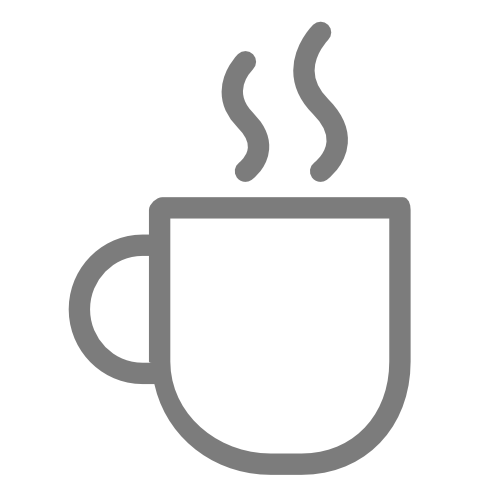
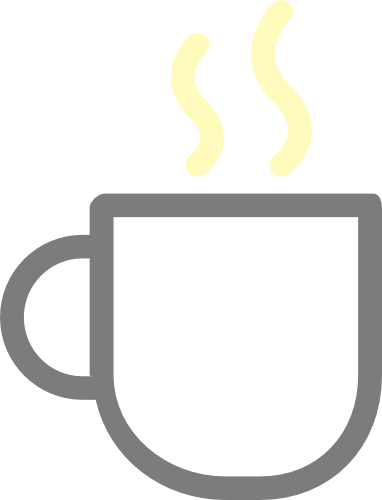
resaved light pngs as selection area with color tweaks. small adjustment to button on SetupOptions for hover effect. added text shadow to h1

Changed region(s): [[0.0, 0.0, 1.0, 1.0]]

diff --git a/frontend_heyu/src/App.css b/frontend_heyu/src/App.css
@@ -105,7 +105,8 @@ h1 {
   margin: 1rem;
   text-align: center;
   color:#FFFBBD;
-  word-break:keep-all;
+  text-shadow: 2px 2px 3px #7c7c7c;
+  word-break: keep-all;
 }
 
 h3 {
@@ -138,6 +139,7 @@ select {
 
 select:focus {
   outline: none;
+  /* border-radius: 10px 10px 0 0; */
 }
 
 /* .def-option {
@@ -326,7 +328,7 @@ input {
   padding: .5rem 1.5rem .5rem 1.5rem;
   width: fit-content;
   margin: 0 auto;
-  margin-top: 1.5rem;
+  margin-top: 2rem;
   font-family: virgil;
   font-size: 1.5rem;
   /* border:#0D0630; */
@@ -339,13 +341,13 @@ input {
 .to-countdown-btn:hover {
   background-color:#0D0630;
   color:#FFFBBD;
-  box-shadow: 0px 0px 5px 3px #9c9c9c;
+  box-shadow: 0px 0px 5px 10px #9c9c9c;
 }
 
 .to-countdown-btn:active {
   background-color:#FFFBBD;
   color:#0D0630;
-  box-shadow: 0px 0px 5px 3px #9c9c9c;
+  box-shadow: 0px 0px 5px 10px #9c9c9c;
 }
 
 input[type="radio"] {
